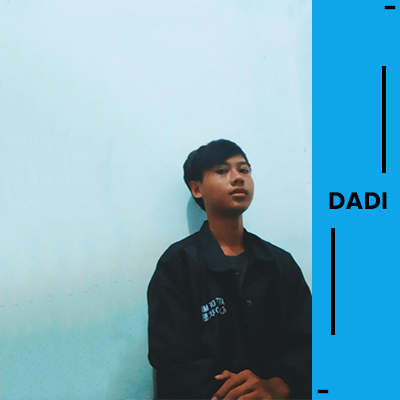
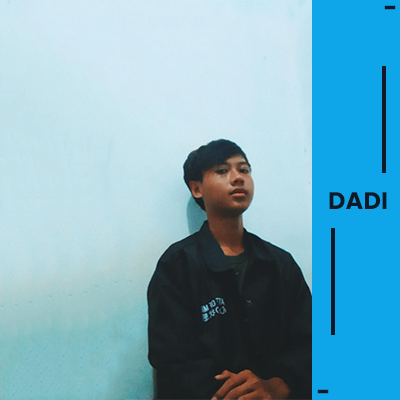
darkmode2

diff --git a/index.html b/index.html
@@ -12,6 +12,13 @@
 		overflow-x: hidden;
 		scroll-behavior: smooth;
 	}
+
+	.bg-pic {
+		background-image: url('assets/img/dadi.png');
+	}
+	.dark .dark\:bg-pic-dark {
+		background-image: url('assets/img/darkmodeD.png');
+	}
   </style>
   <script>
 	if (
@@ -147,30 +154,31 @@
 	<a href="#home" onclick="topFunction()" id="bounce" class="hidden h-10 w-10 bg-sky-500 rounded-full fixed bottom-10 right-10 animate-bounce flex justify-center items-center">
 		<i class="fa fa-arrow-up text-2xl font-bold text-white dark:text-gray-900"></i>
 	</a>
-	<main class="w-screen px-10 py-4 lg:py-10 lg:px-40 lg:flex lg:justify-between pt-10" id="about">
+	<main class="w-screen px-10 py-4 lg:py-10 lg:px-40 lg:flex lg:justify-between pt-10 dark:bg-gray-900" id="about">
 		<div class="leftSection lg:w-1/2">
-			<h1 class="text-4xl text-center pb-5 font-bold"><span class="text-sky-500">About</span><span> Me</span></h1>
-			<p class="text-justify">Lorem ipsum dolor sit amet consectetur adipisicing elit. Blanditiis eveniet in mollitia tempora, inventore culpa necessitatibus ad quasi minus vitae quas aut accusamus illum! Laboriosam ratione, voluptatum itaque porro fuga ducimus aut voluptas saepe suscipit, eos praesentium dolorem culpa iusto temporibus ut sit tenetur accusantium adipisci impedit placeat corporis in!</p>
-			<p class="text-justify">Lorem ipsum dolor sit amet consectetur adipisicing elit. Necessitatibus, esse?</p>
+			<h1 class="text-4xl text-center pb-5 font-bold"><span class="text-sky-500">About</span><span class="text-white"> Me</span></h1>
+			<p class="text-justify dark:text-gray-400">Lorem ipsum dolor sit amet consectetur adipisicing elit. Blanditiis eveniet in mollitia tempora, inventore culpa necessitatibus ad quasi minus vitae quas aut accusamus illum! Laboriosam ratione, voluptatum itaque porro fuga ducimus aut voluptas saepe suscipit, eos praesentium dolorem culpa iusto temporibus ut sit tenetur accusantium adipisci impedit placeat corporis in!</p>
+			<p class="text-justify dark:text-gray-400">Lorem ipsum dolor sit amet consectetur adipisicing elit. Necessitatibus, esse?</p>
 			<div class="imgSection flex gap-4 justify-center pt-5 items-center">
 				<a href="" class="">
-					<i class="fa-brands fa-instagram text-4xl"></i>
+					<i class="fa-brands fa-instagram text-4xl dark:text-gray-400"></i>
 				</a>
 				<a href="">
-					<i class="fa-brands fa-square-github text-4xl"></i>
+					<i class="fa-brands fa-square-github text-4xl dark:text-gray-400"></i>
 				</a>
 				<a href="">
-					<i class="fa-brands fa-linkedin text-4xl"></i>
+					<i class="fa-brands fa-linkedin text-4xl dark:text-gray-400"></i>
 				</a>
 			</div>
 		</div>
 		<div class="rightSection lg:w-1/2 pt-5 flex lg:justify-end justify-center">
-			<img src="assets/img/dadi.png" alt="" class=" rounded-lg shadow-md">
+			<div class="bg-pic w-[400px] h-[400px] dark:bg-pic-dark"></div>
+			<!-- <img src="assets/img/dadi.png" alt="" class="rounded-lg shadow-md"> -->
 		</div>
 	</main>
 	<main class="w-screen px-10 py-4 lg:py-10 lg:px-40 pt-10 dark:bg-gray-900">
 		<h1 class="text-4xl text-center pb-10 font-bold"><span class="dark:text-white">My</span><span class="text-sky-500" > Projects</span></h1>
-		<div class="flex flex-col gap-4 items-center lg:flex-row lg:justify-between lg:flex-wrap">
+		<div class="flex flex-col gap-10 items-center lg:flex-row lg:justify-between lg:flex-wrap">
 			<div class="w-80 h-80 shadow-lg border-b-4 border-sky-500 rounded-t-xl overflow-hidden dark:bg-gray-700 dark:shadow-xl">
 				<span class="cursor-pointer" data-modal-target="defaultModal" data-modal-toggle="defaultModal">
 					<div class="topSection h-40 overflow-hidden">

diff --git a/assets/tailwind.config.js b/assets/tailwind.config.js
@@ -2,5 +2,5 @@ module.exports = {
     content: [
       '../index.html'
     ],
-        darkMode: 'class',
+    darkMode: 'media',
   }
